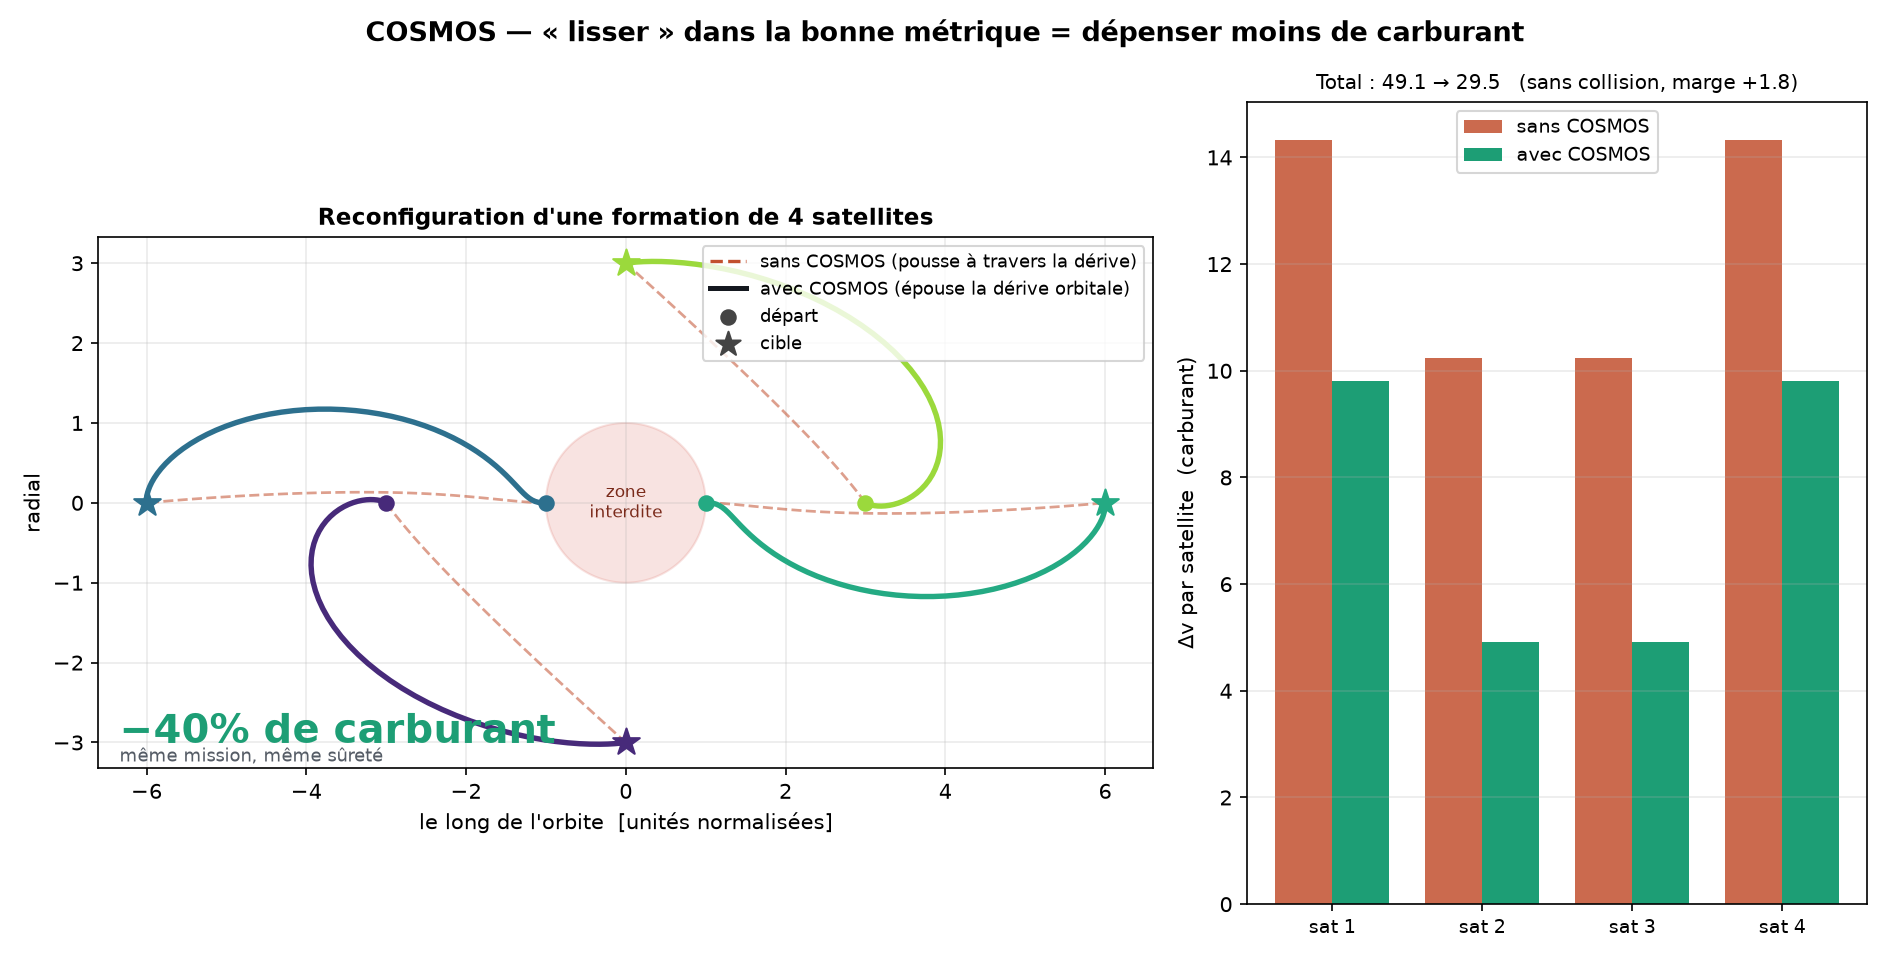
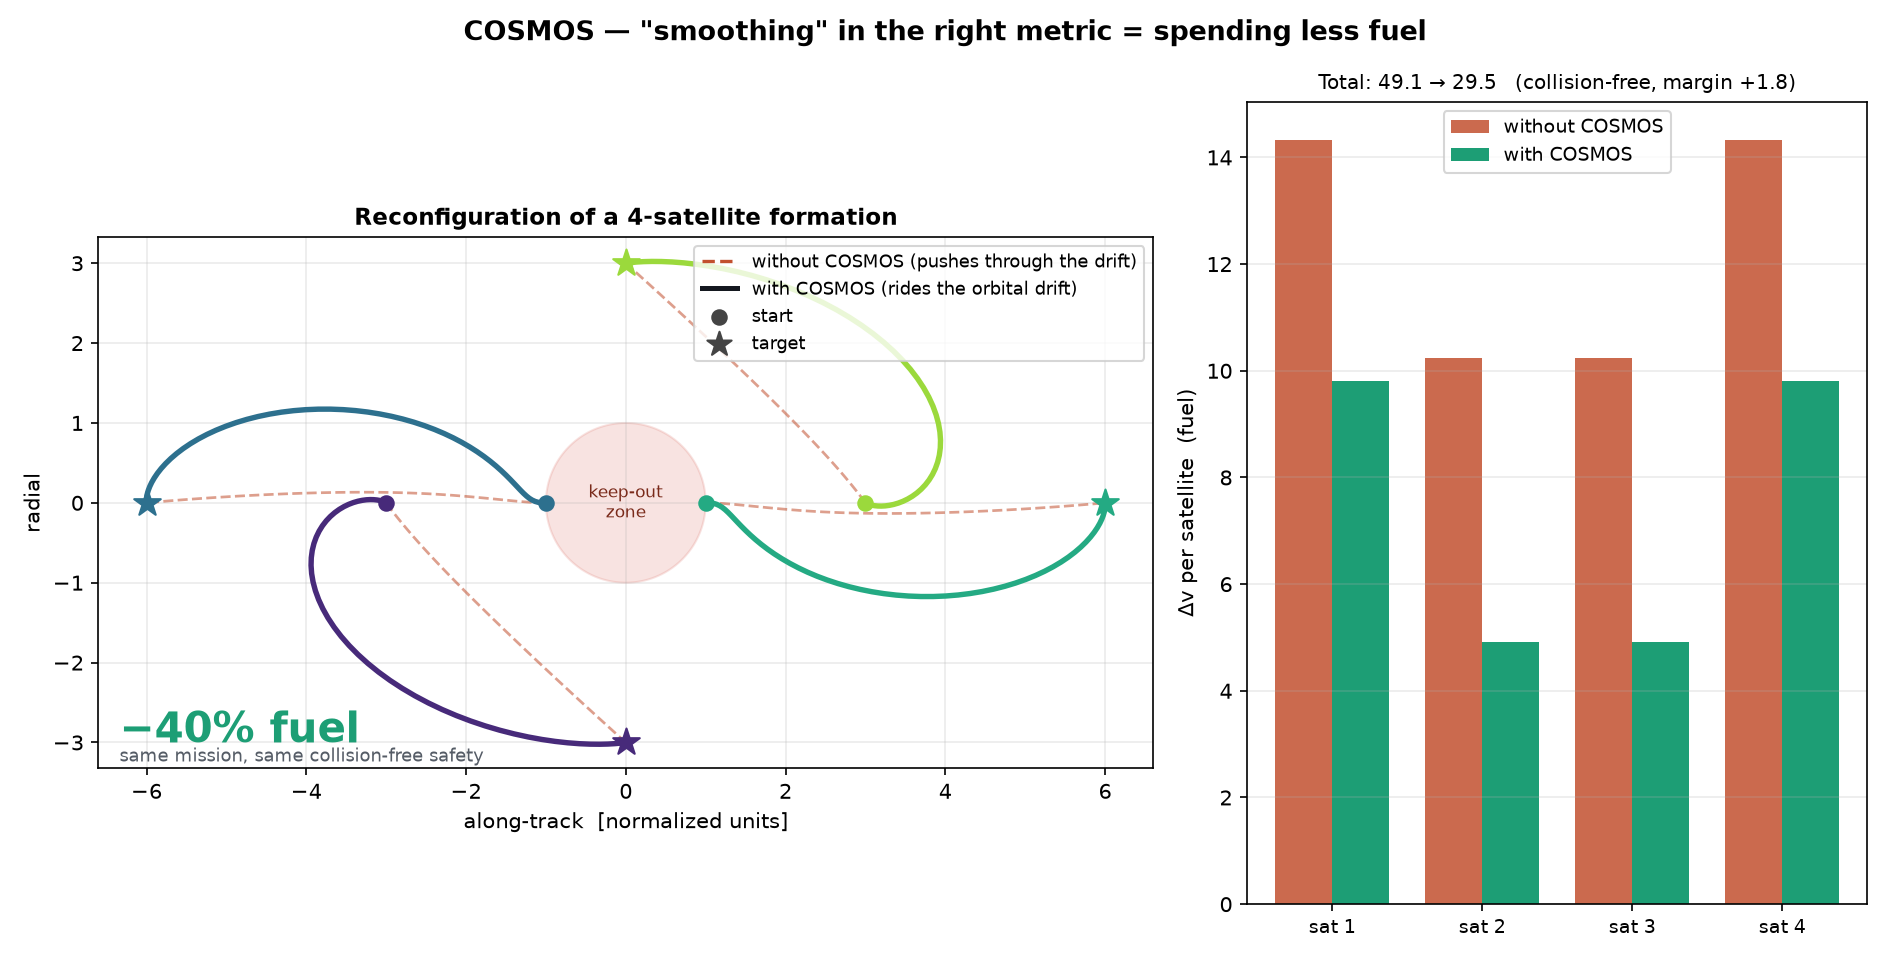
fix: all-English figures/demo + stop the live-demo metric flicker
- cosmos_hero: translate all figure text to English (labels, callouts, titles)
  so the project is consistent -- was the only French left in a figure.
- cosmos_demo: fix the 'numbers keep changing' bug. The soft keep-out penalty
  makes the descent jitter forever at sub-pixel level even though the physical
  Delta-v is already converged, so the old infinite rAF loop re-rendered (and
  flickered) endlessly. Now the loop watches the reported Delta-v: once it is
  steady for several frames it FREEZES; any interaction (drag, slider, preset,
  toggle) re-arms it via kick(). Verified headlessly: all 3 presets freeze in
  ~6 frames at the correct Delta-v. Also translated the demo UI to English.

diff --git a/cosmos_demo.html b/cosmos_demo.html
@@ -115,13 +115,13 @@
 
     <div class="card controls">
       <div class="grp">
-        <label class="lab">scénario</label>
+        <label class="lab">scenario</label>
         <div class="toggles" id="presets">
           <button class="tog b on" data-scn="reconfig">reconfiguration</button>
-          <button class="tog b" data-scn="debris">rendez-vous</button>
-          <button class="tog b" data-scn="avoid">évitement</button>
+          <button class="tog b" data-scn="debris">rendezvous</button>
+          <button class="tog b" data-scn="avoid">avoidance</button>
         </div>
-        <div class="hint" id="scnhint">Un satellite rejoint sa cible en contournant la zone interdite.</div>
+        <div class="hint" id="scnhint">A satellite reaches its target while going around the keep-out zone.</div>
       </div>
 
       <div class="grp">
@@ -323,6 +323,7 @@ function repulsion(x){                    // workspace soft keep-out gradient
 }
 function descendOne(op, c0, x){
   const R=op.ROWS, C=op.COLS;
+  let maxStep=0;                          // track the largest move this call (for convergence)
   for(let it=0; it<ITERS_PER_FRAME; it++){
     const Bx = matvec(op.B, x, R, C);
     const u = new Float64Array(R);
@@ -331,10 +332,12 @@ function descendOne(op, c0, x){
     const gr = repulsion(x);
     for(let i=0;i<C;i++) g[i]+=gr[i];
     const dx = matvec(op.Minv, g, C, C);
-    for(let i=0;i<C;i++) x[i]-=STEP*dx[i];
+    for(let i=0;i<C;i++){ const s=STEP*dx[i]; if(Math.abs(s)>maxStep) maxStep=Math.abs(s); x[i]-=s; }
   }
+  return maxStep;
 }
-function descentStep(){ descendOne(opN,c0N,xi); descendOne(op0,c00,xi0); }
+// returns the largest waypoint move across both plans -> lets the loop detect convergence
+function descentStep(){ return Math.max(descendOne(opN,c0N,xi), descendOne(op0,c00,xi0)); }
 
 function controlOf(op, c0, x){            // physical control u (first 2N entries)
   const Bx=matvec(op.B,x,op.ROWS,op.COLS);
@@ -449,7 +452,23 @@ function render(){
 /* ============================================================================
    Loop + interaction
    ============================================================================ */
-function frame(){ descentStep(); render(); requestAnimationFrame(frame); }
+// --- convergence-aware loop: descend until the REPORTED metrics stabilize, then
+//     FREEZE. We watch the fuel-aware Δv (not raw waypoint moves): a soft-penalty
+//     keep-out makes the waypoints jitter forever at a sub-pixel level while the
+//     physical cost is already converged, so the Δv is the honest stop signal.
+let settling = true, _prevDv = Infinity, _stable = 0;
+function kick(){ settling = true; _prevDv = Infinity; _stable = 0; }  // resume on any change
+function frame(){
+  if(settling){
+    descentStep();
+    render();                                 // metrics refresh only while settling
+    const dv = deltaV(controlOf(opN, c0N, xi));
+    if(Math.abs(dv - _prevDv) < 1e-3){ _stable++; } else { _stable = 0; }
+    _prevDv = dv;
+    if(_stable >= 4) settling = false;         // Δv steady for several frames -> freeze
+  }
+  requestAnimationFrame(frame);
+}
 
 let drag=null;
 function pick(px,py){
@@ -475,7 +494,7 @@ cv.addEventListener('pointermove',e=>{ if(!drag) return; const {px,py}=pointer(e
   w.y=Math.max(RY[0]+.3,Math.min(RY[1]-.3,w.y));
   if(drag==='start') S.start=w; else if(drag==='goal') S.goal=w;
   else { S.obs.x=w.x; S.obs.y=w.y; }
-  recomputeOffsets();
+  recomputeOffsets(); kick();
 });
 cv.addEventListener('pointerup',()=>drag=null);
 
@@ -485,20 +504,20 @@ $('nm').addEventListener('input',e=>{ nm=+e.target.value; $('nmv').textContent=n
   $('nmhint').textContent = nm<0.02 ? 'n = 0 : free space — the optimum is the straight line.'
     : nm>1.0 ? 'strong orbital coupling: the cheap path curves with the drift.'
     : 'n > 0 : orbital coupling bends the cheap path.';
-  opN=buildOp(nm); recomputeOffsets(); });
+  opN=buildOp(nm); recomputeOffsets(); kick(); });
 $('res').addEventListener('input',e=>{ N=+e.target.value; $('resv').textContent=N;
-  rebuild(); resetTraj(); });
-$('rad').addEventListener('input',e=>{ S.obs.r=+e.target.value; $('radv').textContent=S.obs.r.toFixed(2); });
-$('tBase').addEventListener('click',e=>{ showBase=!showBase; e.target.classList.toggle('on',showBase); });
-$('tThrust').addEventListener('click',e=>{ showThrust=!showThrust; e.target.classList.toggle('on',showThrust); });
+  rebuild(); resetTraj(); kick(); });
+$('rad').addEventListener('input',e=>{ S.obs.r=+e.target.value; $('radv').textContent=S.obs.r.toFixed(2); kick(); });
+$('tBase').addEventListener('click',e=>{ showBase=!showBase; e.target.classList.toggle('on',showBase); kick(); });
+$('tThrust').addEventListener('click',e=>{ showThrust=!showThrust; e.target.classList.toggle('on',showThrust); kick(); });
 /* ---- preset scenarios (one click = see the point) ---- */
 const SCENARIOS = {
   reconfig: { S:{start:{x:3.2,y:-5.2}, goal:{x:-2.4,y:4.6}, obs:{x:0.1,y:0.2,r:1.4}}, nm:1.0,
-    hint:"Un satellite rejoint sa cible en contournant la zone interdite." },
+    hint:"A satellite reaches its target while going around the keep-out zone." },
   debris:   { S:{start:{x:4.8,y:-5.6}, goal:{x:-3.2,y:5.2}, obs:{x:0.0,y:0.0,r:0.0}}, nm:1.0,
-    hint:"Rendez-vous libre (sans obstacle) : le chemin épouse la dérive orbitale." },
+    hint:"Obstacle-free rendezvous: the path rides the natural orbital drift." },
   avoid:    { S:{start:{x:3.0,y:-4.6}, goal:{x:-3.0,y:4.6}, obs:{x:0.0,y:0.0,r:2.2}}, nm:1.0,
-    hint:"Gros obstacle au centre : COSMOS contourne 'dans la métrique fuel'." },
+    hint:"Large central obstacle: COSMOS detours 'in the fuel metric'." },
 };
 function applyScenario(name){
   const sc=SCENARIOS[name]; if(!sc) return;
@@ -508,7 +527,7 @@ function applyScenario(name){
   $('scnhint').textContent=sc.hint;
   document.querySelectorAll('#presets .tog').forEach(b=>
     b.classList.toggle('on', b.getAttribute('data-scn')===name));
-  rebuild(); resetTraj();
+  rebuild(); resetTraj(); kick();
 }
 document.querySelectorAll('#presets .tog').forEach(b=>
   b.addEventListener('click',()=>applyScenario(b.getAttribute('data-scn'))));

diff --git a/src/cosmos/cosmos_hero.py b/src/cosmos/cosmos_hero.py
@@ -60,7 +60,7 @@ def hero_2d(out="cosmos_hero.png", verbose=True):
     for ob in r["obstacles"]:
         axT.fill(ob["c"][1] + ob["r"] * np.cos(th), ob["c"][0] + ob["r"] * np.sin(th),
                  color=KEEP, alpha=0.18)
-        axT.text(ob["c"][1], ob["c"][0], "zone\ninterdite", ha="center", va="center",
+        axT.text(ob["c"][1], ob["c"][0], "keep-out\nzone", ha="center", va="center",
                  color="#7a2a1a", fontsize=8)
     for k in range(K):
         Qf = np.vstack([r["starts"][k], r["trajs_free"][k], r["goals"][k]])
@@ -70,33 +70,33 @@ def hero_2d(out="cosmos_hero.png", verbose=True):
         axT.scatter(r["starts"][k][1], r["starts"][k][0], color=colors[k], s=48, zorder=5)
         axT.scatter(r["goals"][k][1], r["goals"][k][0], color=colors[k], marker="*",
                     s=180, zorder=5)
-    axT.plot([], [], "--", color=BLIND, lw=1.6, label="sans COSMOS (pousse à travers la dérive)")
-    axT.plot([], [], "-", color=INK, lw=2.4, label="avec COSMOS (épouse la dérive orbitale)")
-    axT.scatter([], [], color="#444", marker="o", s=48, label="départ")
-    axT.scatter([], [], color="#444", marker="*", s=150, label="cible")
-    axT.set_xlabel("le long de l'orbite  [unités normalisées]")
+    axT.plot([], [], "--", color=BLIND, lw=1.6, label="without COSMOS (pushes through the drift)")
+    axT.plot([], [], "-", color=INK, lw=2.4, label="with COSMOS (rides the orbital drift)")
+    axT.scatter([], [], color="#444", marker="o", s=48, label="start")
+    axT.scatter([], [], color="#444", marker="*", s=150, label="target")
+    axT.set_xlabel("along-track  [normalized units]")
     axT.set_ylabel("radial")
     axT.set_aspect("equal"); axT.grid(alpha=0.25); axT.legend(fontsize=8.6, loc="upper right")
-    axT.set_title("Reconfiguration d'une formation de 4 satellites", fontsize=11, fontweight="bold")
+    axT.set_title("Reconfiguration of a 4-satellite formation", fontsize=11, fontweight="bold")
 
     # big callout
-    axT.text(0.02, 0.03, f"−{r['saving']:.0f}% de carburant",
-             transform=axT.transAxes, fontsize=19, fontweight="bold", color=FUEL,
+    axT.text(0.02, 0.03, f"−{r['saving']:.0f}% fuel",
+             transform=axT.transAxes, fontsize=20, fontweight="bold", color=FUEL,
              va="bottom", ha="left")
-    axT.text(0.02, 0.005, "même mission, même sûreté", transform=axT.transAxes,
+    axT.text(0.02, 0.005, "same mission, same collision-free safety", transform=axT.transAxes,
              fontsize=8.5, color=MUT, va="bottom", ha="left")
 
     # per-satellite fuel bars
     idx = np.arange(K); w = 0.38
-    axB.bar(idx - w/2, r["perf"], w, color=BLIND, alpha=0.85, label="sans COSMOS")
-    axB.bar(idx + w/2, r["per"], w, color=FUEL, label="avec COSMOS")
+    axB.bar(idx - w/2, r["perf"], w, color=BLIND, alpha=0.85, label="without COSMOS")
+    axB.bar(idx + w/2, r["per"], w, color=FUEL, label="with COSMOS")
     axB.set_xticks(idx); axB.set_xticklabels([f"sat {i+1}" for i in range(K)], fontsize=9)
-    axB.set_ylabel("Δv par satellite  (carburant)")
+    axB.set_ylabel("Δv per satellite  (fuel)")
     axB.legend(fontsize=9); axB.grid(alpha=0.25, axis="y")
-    axB.set_title(f"Total : {r['dvf']:.1f} → {r['dv']:.1f}   "
-                  f"(sans collision, marge +{r['clr']:.1f})", fontsize=9.5)
+    axB.set_title(f"Total: {r['dvf']:.1f} → {r['dv']:.1f}   "
+                  f"(collision-free, margin +{r['clr']:.1f})", fontsize=9.5)
 
-    fig.suptitle("COSMOS — « lisser » dans la bonne métrique = dépenser moins de carburant",
+    fig.suptitle("COSMOS — \"smoothing\" in the right metric = spending less fuel",
                  fontsize=13, fontweight="bold")
     fig.tight_layout(); fig.savefig(out, dpi=150)
     if verbose:
@@ -126,7 +126,7 @@ def _draw_3d(ax, r, elev=22, azim=-60):
                    color=colors[k], s=36)
         ax.scatter(r["goals"][k][1], r["goals"][k][0], r["goals"][k][2],
                    color=colors[k], marker="*", s=140)
-    ax.set_xlabel("le long de l'orbite"); ax.set_ylabel("radial"); ax.set_zlabel("hors-plan")
+    ax.set_xlabel("along-track"); ax.set_ylabel("radial"); ax.set_zlabel("cross-track")
     ax.view_init(elev=elev, azim=azim)
 
 
@@ -135,12 +135,12 @@ def hero_3d(out="cosmos_hero_3d.png", verbose=True):
     fig = plt.figure(figsize=(9.5, 7.6))
     ax = fig.add_subplot(111, projection="3d")
     _draw_3d(ax, r)
-    ax.plot([], [], "--", color=BLIND, lw=1.6, label="sans COSMOS")
-    ax.plot([], [], "-", color=INK, lw=2.4, label="avec COSMOS")
+    ax.plot([], [], "--", color=BLIND, lw=1.6, label="without COSMOS")
+    ax.plot([], [], "-", color=INK, lw=2.4, label="with COSMOS")
     ax.legend(fontsize=9, loc="upper left")
-    ax.set_title(f"COSMOS en 3D — rendez-vous hors-plan\n"
-                 f"carburant total : {r['dvf']:.1f} → {r['dv']:.1f}   "
-                 f"(−{r['saving']:.0f}%, sans collision)",
+    ax.set_title(f"COSMOS in 3D — out-of-plane rendezvous\n"
+                 f"total fuel: {r['dvf']:.1f} → {r['dv']:.1f}   "
+                 f"(−{r['saving']:.0f}%, collision-free)",
                  fontsize=11, fontweight="bold")
     fig.tight_layout(); fig.savefig(out, dpi=150)
     if verbose:
@@ -159,7 +159,7 @@ def make_gif(out="cosmos_hero_3d.gif", frames=48, verbose=True):
     def frame(i):
         ax.cla()
         _draw_3d(ax, r, elev=20, azim=-80 + 360 * i / frames)
-        ax.set_title(f"COSMOS 3D — carburant −{r['saving']:.0f}% (sans collision)",
+        ax.set_title(f"COSMOS 3D — fuel −{r['saving']:.0f}% (collision-free)",
                      fontsize=10, fontweight="bold")
     anim = FuncAnimation(fig, frame, frames=frames, interval=60)
     anim.save(out, writer=PillowWriter(fps=16), dpi=80)
